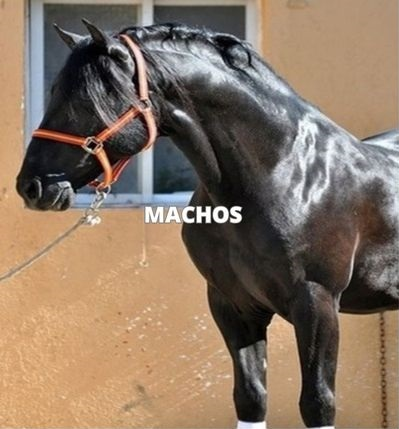
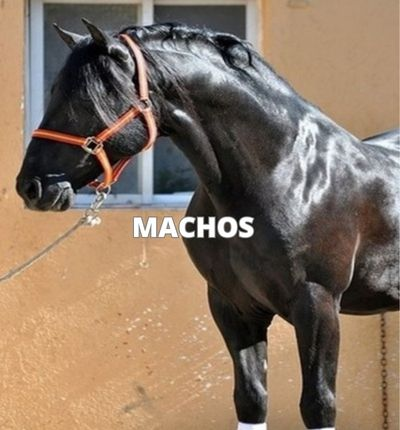
change google font

diff --git a/template.html b/template.html
@@ -8,7 +8,9 @@
         <!-- FontAwesome v6.1.2 -->
         <link rel="stylesheet" href="https://cdnjs.cloudflare.com/ajax/libs/font-awesome/6.1.2/css/all.min.css">
         <link rel="stylesheet" href="https://fonts.googleapis.com/css2?family=Material+Symbols+Outlined:opsz,wght,FILL,GRAD@48,100,0,200" />
-        
+        <link rel="preconnect" href="https://fonts.googleapis.com">
+<link rel="preconnect" href="https://fonts.gstatic.com" crossorigin>
+<link href="https://fonts.googleapis.com/css2?family=Lora&display=swap" rel="stylesheet">
     </head>
     <body class="h-100">
         <div id="app" class="h-100"></div>

diff --git a/src/front/styles/index.css b/src/front/styles/index.css
@@ -3,6 +3,7 @@
 */
 body{
     background-color:  #fdd19c;
+    font-family: 'Lora', serif;
 }
 
 section{
